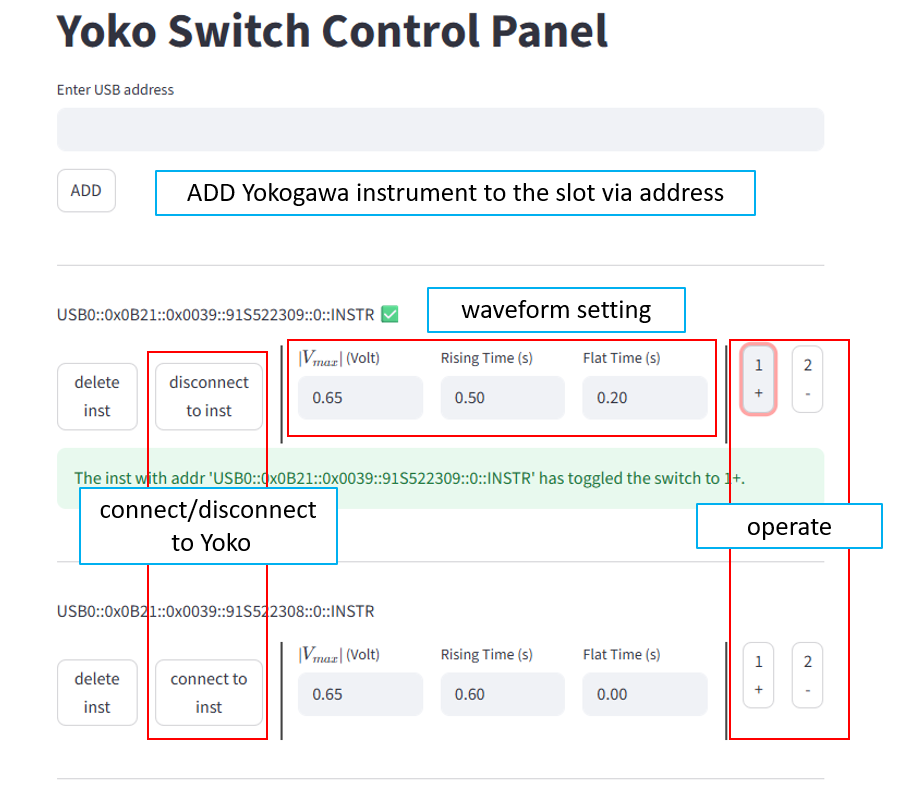
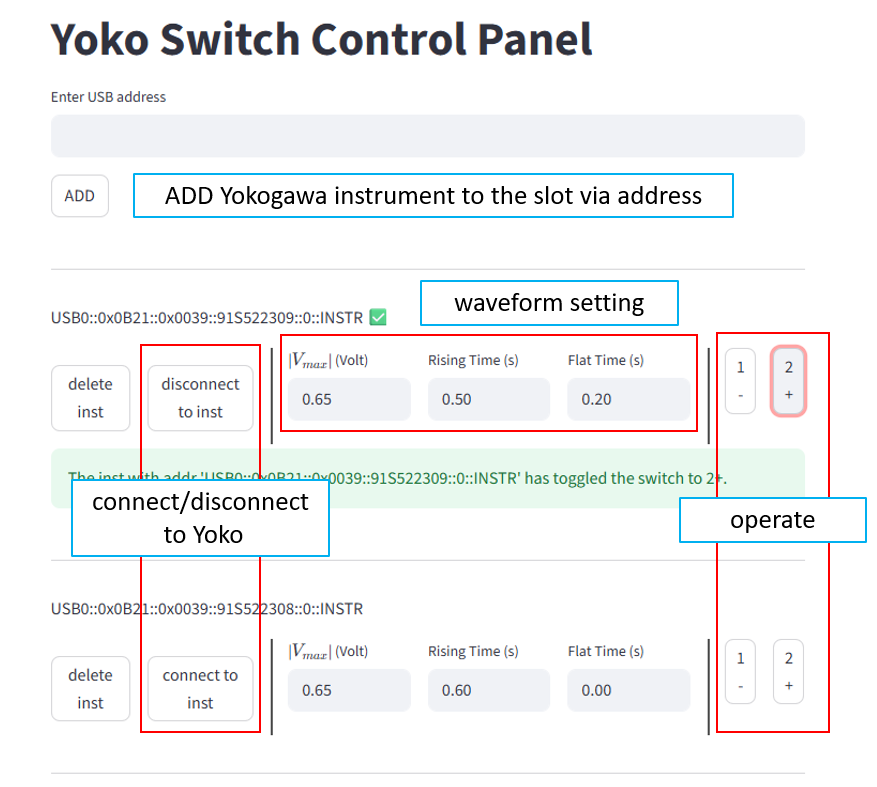
changes

diff --git a/utils.py b/utils.py
@@ -2,56 +2,63 @@
 
 """
 import pyvisa
+import time
 rm = pyvisa.ResourceManager()
 connected_insts = {} # the addr -> pyvisa.resource map
 
-def connect(address) -> str:
+def connect(address: str) -> bool:
     """Connect to YOKOGAWA, check if output is on.
     
-    raise:
-
+    Raises:
+        pyvisa.VisaIOError: If the connection to the instrument cannot be established
+            (e.g., invalid address, communication error).
+        Exception: If the instrument output is already ON, the connection is
+            aborted for safety reasons.
     """
-    # # try connecting, using pyvisa
-    # try:
-    #     inst = rm.open_resource(address)
-    # except pyvisa.VisaIOError as e:
-    #     raise Exception(f'Error occur when try connecting to YOKOGAWA with addr "{address}".\n{e}')
+    # try connecting, using pyvisa
+    yoko = rm.open_resource(address) # raise: pyvisa.VisaIOError
     
-    # # check if the output is on
-    # output_status = inst.query(':OUTP?')
-    # if output_status == '1\n':
-    #     inst.close()
-    #     raise Exception(f'The YOKOGAWA with addr "{address}" is outpting, connection halt.')
+    # check if the output is on
+    output_status = yoko.query(':OUTP?')
+    if output_status == '1\n':
+        yoko.close()
+        raise Exception(f'The YOKOGAWA with addr "{address}" is outpting, connection halt.')
     
-    # # connection success
-    # connected_insts[address] = inst
-    # print(f'Have connected to YOKOGAWA with addr "{address}".')
+    # connection success
+    connected_insts[address] = yoko
+    print(f'Have connected to YOKOGAWA with addr "{address}".')
     return True
 
         
-def disconnect(address):
+def disconnect(address: str) -> bool:
     """
+    
+    Raises:
+        Exception: If the instrument with the given address is not currently
+            managed by this backend (not connected).
+        Exception: If the instrument output is still ON, the disconnection is
+            halted for safety reasons.
     """
     # check if in charge
     if address not in connected_insts.keys():    
         raise Exception(f'There was no YOKOGAWA with addr "{address}" in connection by this artitecture.')
-    inst = connected_insts[address]
+    yoko = connected_insts[address]
     
     # check if output is off
-    output_status = inst.query(':OUTP?')
+    output_status = yoko.query(':OUTP?')
     if output_status == '1\n':    
         raise Exception(f'The YOKOGAWA with addr "{address}" is outpting, disconnection halt.')
 
     # turn the remote light off and delete pyvisa control, remove from dict.
-    inst.write(':SYST:LOC')
-    inst.close()
+    yoko.write(':SYST:LOC')
+    yoko.close()
     del connected_insts[address]
     print(f'YOKOGAWA with addr {address} is now disconnected.')
     return True
 
-import time
+
 def operate(address, v_max, rising_time, flat_time, pm):
-    """Operate the swtich based on the parms
+    """Operate the swtich based on the parms.
     
     Args:
         address (string): the YOKOGAWA address
@@ -60,16 +67,69 @@ def operate(address, v_max, rising_time, flat_time, pm):
         flat_time (float): the time voltage steys at maxima vaule.
         pm (str): '+' or '-', voltage goes to +v_max and -v_max respectively.
 
+    Raises:
+        KeyError: If the instrument is not in charge.
+        ValueError: If the pm option, rising_time, flat_time, v_max is invalid.
+        Exception: If the YOKOGAWA outpiting when calling this function.
+        
     Returns:
         complete (bool): ture when success.
     """
-    # if address not in connected_insts.keys():    
-    #     raise Exception(f'There was no YOKOGAWA with addr "{address}" in connection by this artitecture.')
-    # inst = connected_insts[address]
-    # ## 
-    # # the implimentation
-    # ##
+    if address not in connected_insts.keys():    
+        raise KeyError(f'There was no YOKOGAWA with addr "{address}" in connection by this artitecture.')
+    yoko = connected_insts[address]
+    output_status = yoko.query(':OUTP?')
+    if output_status == '1\n':    
+        raise Exception(f'The YOKOGAWA with addr "{address}" is outpting, halt.')
     
-    # print(f"Operate with {address}, {v_max}, {rising_time}, {flat_time}, {pm}")
-    time.sleep(2*rising_time+flat_time)
+    ## init
+    yoko.write('*CLS')
+    yoko.write(':PROG:REP 0')
+    yoko.write(':SOUR:LEV 0')
+    yoko.write(':SOUR:FUNC VOLT')
+    
+    ## config
+    if rising_time < 0 or rising_time > 3600:
+        raise ValueError(f'The rising time {rising_time} is invalid (should be 0 ~ 3600s).')
+    if flat_time < 0:
+        raise ValueError(f'The flat time {flat_time} is invalid (should be > 0).')
+    if v_max <= 0:
+        raise ValueError(f'The v_max {flat_time} is invalid (should be > 0).')
+    if pm != '+' and pm != '-':
+        raise ValueError(f'The pm option {pm} is not "+" nor "-".')
+    # set voltage range to sutiable
+    volt_ranges = [1e-3, 1e-2, 1e-1, 1, 10, 30] # VOLT range
+    for volt_range in volt_ranges:
+        if v_max <= volt_range:
+            yoko.write(f":SOUR:RANG {volt_range}")
+            break
+    else:
+        raise ValueError(f"v_max {v_max}V is out of range {volt_range}V")
+    yoko.write(':OUTP ON')
+    yoko.write(f':PROG:SLOP {rising_time:.6e}') # rising time
+    yoko.write(f':PROG:INT {rising_time:.6e}')  # program time interval
+
+    yoko.write(':OUTP ON')
+    ## rising
+    if pm == '+': flat_level = v_max
+    elif pm == '-': flat_level = -v_max
+    yoko.write(':PROG:EDIT:STAR;')
+    yoko.write(f':SOUR:LEV {flat_level}')
+    yoko.write(':PROG:EDIT:END;')
+    yoko.write(':PROG:RUN')
+    time.sleep(rising_time)
+
+    ## flat
+    time.sleep(flat_time)
+    
+    ## falling
+    yoko.write(':PROG:EDIT:STAR;')
+    yoko.write(':SOUR:LEV 0')
+    yoko.write(':PROG:EDIT:END;')
+    yoko.write(':PROG:RUN')
+    time.sleep(rising_time*1.1)
+
+    ## ending
+    yoko.write(':OUTP OFF')
+
     return True

diff --git a/app.py b/app.py
@@ -111,24 +111,24 @@ for idx, inst in enumerate(instruments):
 
    # Operate buttons with full-width alert
     with col8:
-        operate_plus = st.button("1+", key=f"plus_{idx}")
+        operate_plus = st.button("1-", key=f"plus_{idx}")
     with col9:
-        operate_minus = st.button("2-", key=f"minus_{idx}")
+        operate_minus = st.button("2+", key=f"minus_{idx}")
 
     status_placeholder = st.empty()
     if operate_plus:
         if inst.get("connected", False):
-            status_placeholder.warning("functioning 1+ operation...")
-            operate(inst['address'], v_max, rising_time, flat_time, '+')
-            status_placeholder.success(f"The inst with addr '{inst['address']}' has toggled the switch to 1+.")
+            status_placeholder.warning("functioning 1- operation...")
+            operate(inst['address'], v_max, rising_time, flat_time, '-')
+            status_placeholder.success(f"The inst with addr '{inst['address']}' has toggled the switch to 1-.")
         else:
             status_placeholder.warning(f"The inst with addr '{inst['address']}' is not connected!")
 
     if operate_minus:
         if inst.get("connected", False):
-            status_placeholder.warning("functioning 2- operation...")
-            operate(inst['address'], v_max, rising_time, flat_time, '-')
-            status_placeholder.success(f"The inst with addr '{inst['address']}' has toggled the switch to 2-.")
+            status_placeholder.warning("functioning 2+ operation...")
+            operate(inst['address'], v_max, rising_time, flat_time, '+')
+            status_placeholder.success(f"The inst with addr '{inst['address']}' has toggled the switch to 2+.")
         else:
             status_placeholder.warning(f"The inst with addr '{inst['address']}' is not connected!")
             

diff --git a/readme.md b/readme.md
@@ -1,13 +1,13 @@
 # Yoko Switch GUI Panel
-An GUI panel for using YOKOGAWA to operate microwaveswitch.
+An GUI panel for using YOKOGAWA to operate microwave switch.
 
 # Usage
 ![alt text](image.png)
 
 # Auto setup
-1. Use windows >= 7 computer, anaconda or miniconda, git.
+1. windows >= 7 computer, anaconda or miniconda, git.
 2. create a folder to be the workspace.
-3. put `auto_setup.bat` inside that folder and double click to run it.
+3. download `auto_setup.bat` and put inside that folder and double click to run it.
 
 > [!Note]
 > `auto_setup.bat` do the fowwling things.
@@ -16,4 +16,4 @@ An GUI panel for using YOKOGAWA to operate microwaveswitch.
 > 3. pip install modules, to the env.
 > 4. open the webpage GUI.
 >
-> This batch file can be used as setup as well as open GUI.
+> This batch file can be used as setup as well as open GUI.W
